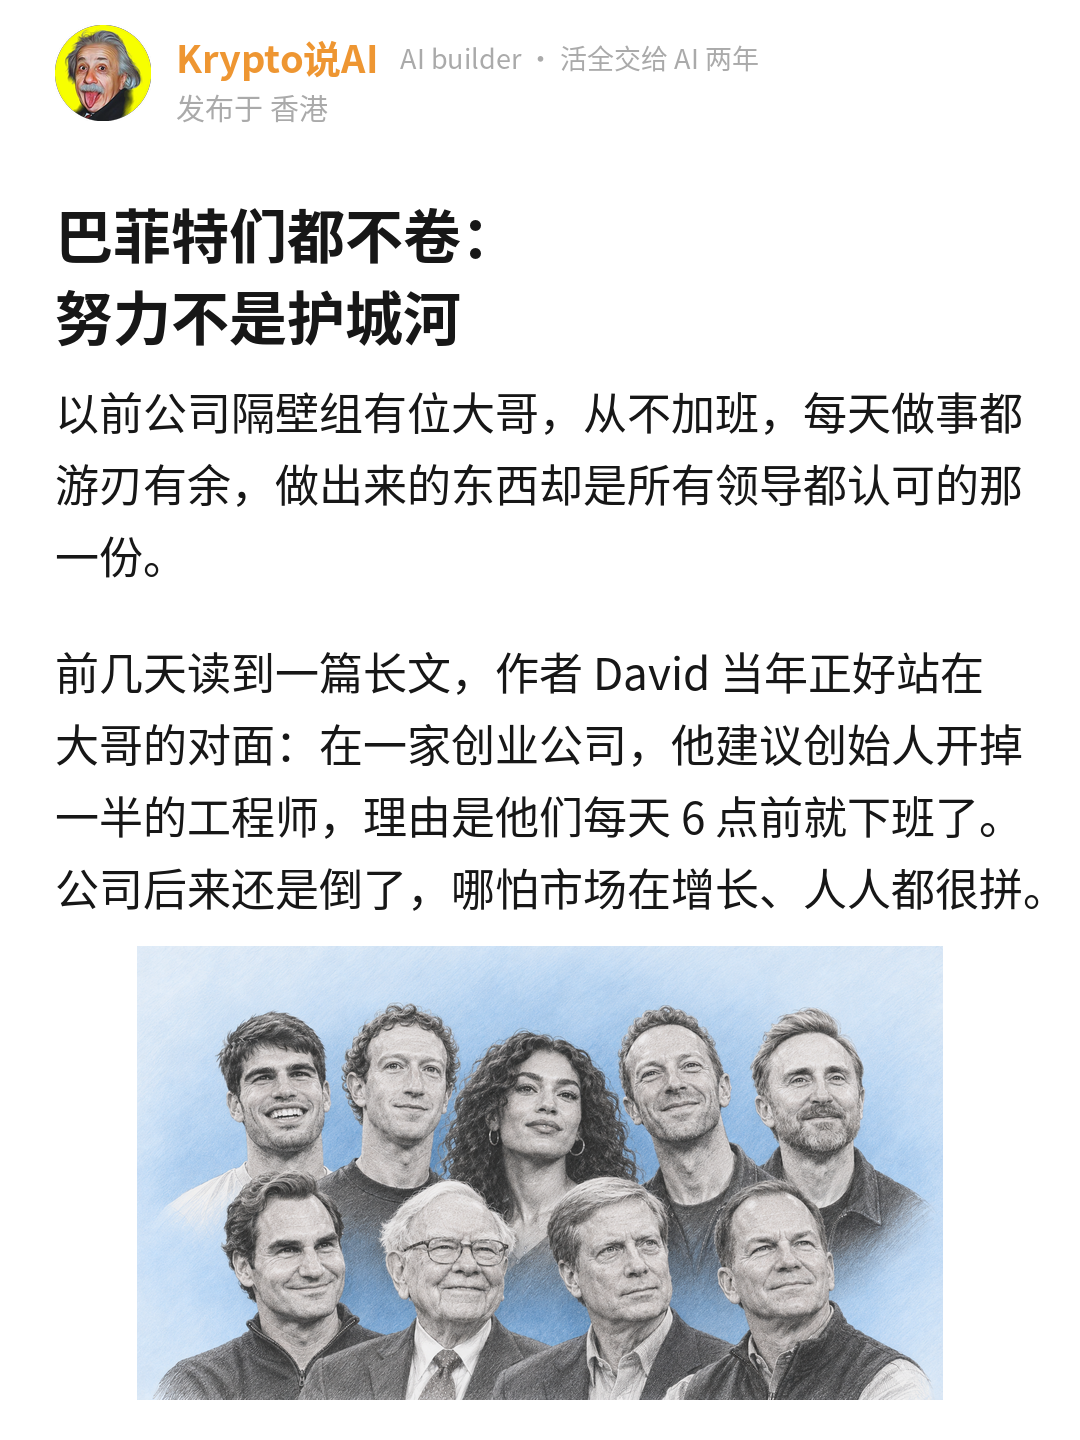
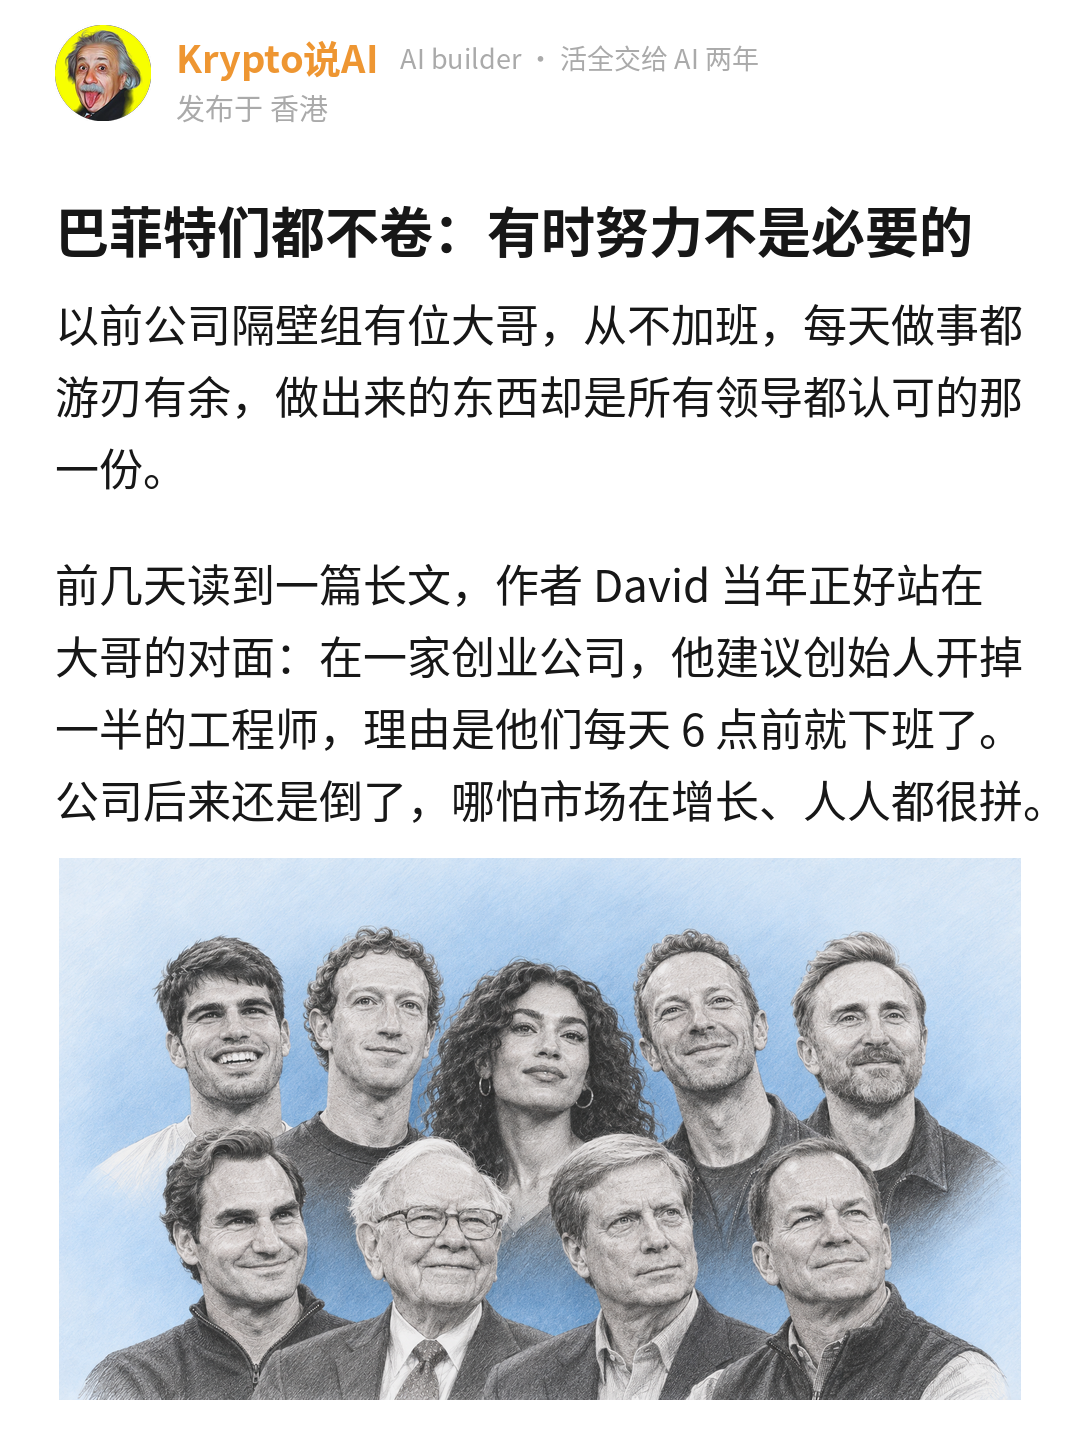
Working Hard 稿：标题改「巴菲特们都不卷：有时努力不是必要的」，headline 一行；render_meme 加 headline_size
Claude-Session: https://claude.ai/code/session_01NaeRTdLFAkf1CdSzGPdtzn

diff --git a/skills/meme-xhs/scripts/render_meme.py b/skills/meme-xhs/scripts/render_meme.py
@@ -13,7 +13,7 @@ draft.md 格式:
 
   ---
   title: 标题（只进 标题.txt，不上图）
-  headline: 它替你订的酒店，是谁出的价      # 可选：首页作者块下面的一行突出标题，20 字以内；用「|」手动换行，避免一个字落单
+  headline: 它替你订的酒店，是谁出的价      # 可选：首页作者块下面的一行突出标题，20 字以内；用「|」手动换行，避免一个字落单；headline_size: 54 调字号（默认 58），17 字以上要一行放下时用
   hero: quote.png                        # 可选：首页的一张素材图（原文截图、原文配图、后台截图），不用自己画的
   hero_max: 760                          # 首页素材图最高多少 px（默认 480；10-20 起可改）
   hero_after: 3                          # 素材图放在第几段之后（默认 3：先铺垫几句再放图，读者才知道图在讲什么）
@@ -233,10 +233,11 @@ class Pager:
         if not self.pages and not self.has_cover:            # 没有封面时，首页放作者块 + 突出标题 + 素材图
             self.y = author_block(im, d, self.meta, self.avatar) + 40
             if self.meta.get("headline"):
-                fh = font(58, "Semibold")
+                hs = int(self.meta.get("headline_size", 58))      # 可选 headline_size：字号，长标题要一行放下时调小
+                fh = font(hs, "Semibold")
                 for ln in [l for part in self.meta["headline"].split("|") for l in wrap(part.strip(), fh)]:   # 「|」手动换行
                     d.text((L, self.y), ln, font=fh, fill=BLACK)
-                    self.y += 82
+                    self.y += round(hs * 82 / 58)
                 self.y += 14
         else:                                                # 续页：顶栏
             d.line([(72, 52), (48, 77), (72, 102)], fill=(40, 40, 40), width=5, joint="curve")

diff --git a/CLAUDE.md b/CLAUDE.md
@@ -3,7 +3,7 @@
 这个仓库是小红书账号 **Krypto说AI** 的工作区，也是它的记忆。在这里做的每一篇稿子，先读本页，再读 `账号/档案.md`、`账号/经历库.md` 和 `账号/爆文方法论.md`（10-14 起，选题 / 标题 / 首图 / 原文跟发的发前清单，交付时逐条写过没过）。每次用户说了新的经历、新的观点、新的规则，写回这两份文件并更新本页摘要，不要只留在对话里。
 
 ## 摘要
-- **11-17 Simple Alpha《Working Hard Is Overrated》稿（meme-v2，retell，value 信息 + 框架，stance_line 无，`发布/2026-11-17_working-hard-overrated/meme-v2版/`，12 页 + 名片卡，待用户看）**：素材是 Substack 长文（David，德国 VC 合伙人，11-04，九人对照：Alcaraz / 费德勒 / Chris Martin / Olivia Dean / Guetta / 扎克伯格 / 巴菲特 / 德鲁肯米勒 / PTJ + 牛津幸福感研究 + 10% 推 90% 拉）。先问走了，用户答：隔壁组大哥游刃有余、不加班、东西被所有领导认可（经历库 #43）；「努力不是护城河」成立，多数人的努力只是起点、变不成 edge（观点库 #35）；价值信息 + 框架；⑥ 答「努力不是最重要的」，cost 无；④ 没答，stance_line 写无。起法是身边人的一个场景（大哥）+ 作者当年站在对面（要开掉 6 点前下班的工程师，公司照样倒了），跟上一篇不同；四条（网球 / 音乐 / 扎克伯格 / 投资），判断段带一句「AI 把执行越压越便宜，多熬的小时差距更小」（这句是我加的，用户没说），回扣大哥；结尾问「多待的几个小时属于 10% 的推还是只是没走」，回指心流稿。首图原文九人素描，结尾裁巴菲特，自绘 nine / slam / federer / songs / band / yahoo / invest / oxford / split / two 十张，每页有图。标题「巴菲特们都不卷：努力不是护城河」（15 字），备选「巴菲特跳着舞上班，强烈推荐这篇。」「费德勒一天只练2小时，赢了那么多年」。check 0 ✗；check_paste 的二选一 ✗ 是旧规则（正文.txt 已有 A / B 问）
+- **11-17 Simple Alpha《Working Hard Is Overrated》稿（meme-v2，retell，value 信息 + 框架，stance_line 无，`发布/2026-11-17_working-hard-overrated/meme-v2版/`，12 页 + 名片卡，待用户看）**：素材是 Substack 长文（David，德国 VC 合伙人，11-04，九人对照：Alcaraz / 费德勒 / Chris Martin / Olivia Dean / Guetta / 扎克伯格 / 巴菲特 / 德鲁肯米勒 / PTJ + 牛津幸福感研究 + 10% 推 90% 拉）。先问走了，用户答：隔壁组大哥游刃有余、不加班、东西被所有领导认可（经历库 #43）；「努力不是护城河」成立，多数人的努力只是起点、变不成 edge（观点库 #35）；价值信息 + 框架；⑥ 答「努力不是最重要的」，cost 无；④ 没答，stance_line 写无。起法是身边人的一个场景（大哥）+ 作者当年站在对面（要开掉 6 点前下班的工程师，公司照样倒了），跟上一篇不同；四条（网球 / 音乐 / 扎克伯格 / 投资），判断段带一句「AI 把执行越压越便宜，多熬的小时差距更小」（这句是我加的，用户没说），回扣大哥；结尾问「多待的几个小时属于 10% 的推还是只是没走」，回指心流稿。首图原文九人素描，结尾裁巴菲特，自绘 nine / slam / federer / songs / band / yahoo / invest / oxford / split / two 十张，每页有图。标题「巴菲特们都不卷：有时努力不是必要的」（17 字，用户 11-17 改，headline 一行放下用 `headline_size: 54`，render_meme 新加的可选项；原「努力不是护城河」两行版作废），备选「巴菲特跳着舞上班，强烈推荐这篇。」「费德勒一天只练2小时，赢了那么多年」。check 0 ✗；check_paste 的二选一 ✗ 是旧规则（正文.txt 已有 A / B 问）
 - **11-12 对标 硅谷大脑 成长计划（`对标/硅谷大脑成长计划/`，12 张截图 + 我们自己的主页截图 + 拆解，待用户定，没动 skill）**：1.79 万粉的机构号，做长访谈整理（美图 CEO 稿 30 页）。行文：最近看了 → 为什么值得看 → 履历 → 一个反常的数 → 预告三个结论 + 内容目录 → 每章「主持人问了什么 → 他怎么答 → 原话单独一行 → 比喻 → 具体行业例子 → 换个说法小结」，全程第三人称没有「我」。主页：首图固定模板（米色底、两行大号标题对读者说一句结论、原视频封面、两三行导语），首图标题和笔记标题不是同一句；背景图是自己封面拼的墙；简介说清讲什么 / 从哪来 / 你得到什么 / 多久一次；置顶一篇清单稿。墙上赞数：销售 487 / 300、演讲 187、成长 124，AI 创业 12 到 89，跟我们第 ① 关一致。**我们的主页现状（11-12 截图）**：3768 粉、3.1 万赞藏；名字「Krypto说AI｜AI Builder」；背景是灰色爱因斯坦脸部特写；简介「AI builder 香港 / 每天思考 How to live and build better with AI / CMU Class of 2020 / 一个邮箱」；置顶李录原文上 + 李录主稿。建议七条：简介重写成跟名片卡同一件事并拿掉邮箱（站外联系方式）、背景图换成爆款首页墙或一行字、置顶加一篇「我看完觉得值的 N 场长访谈」清单稿、首图 headline 和笔记标题分开写（首图放两行结论、笔记标题放身份和全名）、长访谈稿加目录并放开篇幅、每点补「主持人问了什么」半句。不学：没有「我」、「不是 X 而是 Y」、宋体、极限词、店铺群聊、长页无图
 - **11-10 名片卡默认句换成「我看完觉得值的，都写在这儿了。」（用户定）**：`render_meme.py` 的 CARD 默认值、meme-xhs SKILL、爆文方法论同步。过程：三轮「关注我，＋承诺」的建议（替你读完 / 每周长一点见识 / 好东西我先替你看等）都被退，用户原话「太官方了，不太接地气」「看一下素材库里面的口气，要做到那种风格」；对标库里小盖、MemeInformation 都不写「关注我」，口气是一句平常话加句号、说自己做了什么。以后给这个号写口号、简介、CTA 先按这个口气出。视频封面 `cover.py` 的 slogan 行（「AI builder · 带你拉开和身边人的差距」）没动，待用户定。已出未发的稿末页还是旧句，要换得重出末页
 - **11-10 四关写进方法论和 meme skills（用户定「把这四关写进爆文方法论和 meme skills」）**：`账号/爆文方法论.md` 新增第六节「四关」（① 出粉丝池：粉丝点击率不低于整体 ② 路人点进来：点击率 18% ③ 被继续推：停留 40 秒、评论两位数 ④ 关注：每千次观看涨粉 3；哪关没过改哪关），第五节的 48 小时检验换成「2 小时看粉丝点击率 + 48 小时看四个数」，发前清单补第 9 条。meme-v2 SKILL：步骤 2 定骨架前先写「李录和心流带来的读者为什么会点这篇」、写不出来就告诉用户；front matter 加 `goal: 涨粉 / 流量`；步骤 6 荐读体只在名字本身是钩子时当主标题、标题或正文第一段带全名 / 书名；步骤 7 交付写四关三行（粉丝为什么点、接续动作、发布后看什么）；新增「四关」节；changelog 记了。meme-xhs SKILL 同步（顶部 11-10 段 + 交付汇报加一条）。check.py / meme_check 没有 `goal` 报 ⚠。全是选题、交付、检验层，没加写法规则。**仍待用户定**：主线比例（长内容精读每周五篇以上、AI 工具稿每周最多一篇或放公众号 / 推特）、名片卡 CTA、Kotler 原文精读接续稿

diff --git a/发布/2026-11-17_working-hard-overrated/meme-v2版/编辑用/draft.md b/发布/2026-11-17_working-hard-overrated/meme-v2版/编辑用/draft.md
@@ -1,5 +1,5 @@
 ---
-title: 巴菲特们都不卷：努力不是护城河
+title: 巴菲特们都不卷：有时努力不是必要的
 mode: retell
 value: 信息 + 框架
 goal: 涨粉
@@ -10,7 +10,8 @@ reader: 晚上九点还坐在工位上、其实手上的事两小时前就做不
 cost: 无（用户这篇答的是「努力不是最重要的」，没有具体代价）
 keyword: 巴菲特
 keywords: 巴菲特, 费德勒, 扎克伯格, Alcaraz, 酷玩, 努力, 内卷, 护城河
-headline: 巴菲特们都不卷：|努力不是护城河
+headline: 巴菲特们都不卷：有时努力不是必要的
+headline_size: 54
 hero: cover.png
 hero_after: 2
 hero_max: 560
